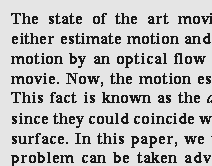
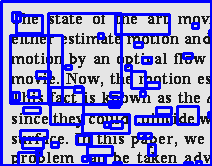
update hws

diff --git a/comput_vision/2task/main.py b/comput_vision/2task/main.py
@@ -1,7 +1,8 @@
-
 __author__ = 'kate'
+
 import numpy as np
 import cv2
+from copy import copy
 
 
 def showImg(name, mat):
@@ -15,8 +16,12 @@ def saveImg(name, mat):
     cv2.imwrite(name, mat)
 
 
+def saveBinImg(binImg):
+    saveImg("rezBin.bmp", binImg)
+
+
 def saveCounturedImg(inImg, binImg):
-    contours, hierarchy = cv2.findContours(binImg, cv2.RETR_TREE, cv2.CHAIN_APPROX_SIMPLE)
+    contours = cv2.findContours(binImg, mode=cv2.RETR_LIST, method=cv2.RETR_LIST)[0]
     for cnt in contours:
         x, y, w, h = cv2.boundingRect(cnt)
         cv2.rectangle(inImg, (x, y), (x + w, y + h), (255, 0, 0), 2)
@@ -24,29 +29,24 @@ def saveCounturedImg(inImg, binImg):
     showImg("COUNTURED", inImg)
 
 
-def saveBinImg(binImg):
-    saveImg("rezBin.png", binImg)
 
 
 def createBinaryImg(inImg):
-    blurImg = cv2.GaussianBlur(inImg, (3, 3), 0)
-    grayImg = cv2.cvtColor(blurImg, cv2.COLOR_BGR2GRAY, 1)
+    blurImg = cv2.GaussianBlur(inImg, (21, 21), 0)
+    grayImg = cv2.cvtColor(blurImg, cv2.COLOR_BGR2GRAY)
 
-    laplacian = cv2.Laplacian(grayImg, cv2.CV_32F)
-    laplacian = cv2.convertScaleAbs(laplacian)
+    laplacian = cv2.Laplacian(grayImg, cv2.CV_32F, None, ksize=17, scale=1)
+    threshed_image = cv2.threshold(laplacian, 0, 255, cv2.THRESH_BINARY)[1]
+    threshed_image = cv2.convertScaleAbs(threshed_image)
+    opening = cv2.morphologyEx(threshed_image, cv2.MORPH_OPEN, np.ones((5, 5), np.uint8))
+    saveBinImg(opening)
+    return opening
 
-    ret, tresh = cv2.threshold(laplacian, 52, 255, cv2.THRESH_BINARY)
-
-    closing = cv2.morphologyEx(tresh, cv2.MORPH_CLOSE, np.ones((3, 13), np.uint8))
-    return closing
 
 def readImg(name):
-    inImg = cv2.imread(name, 1)
-    return inImg
+    return cv2.imread(name, 1)
 
 
 inImg = readImg("text.bmp")
 binImg = createBinaryImg(inImg)
 saveCounturedImg(inImg, binImg)
-
-

diff --git a/comput_vision/1task/main.py b/comput_vision/1task/main.py
@@ -16,12 +16,11 @@ def saveBinImg(binImg):
 
 
 def createBinaryImg(inImg):
-    blurImg = cv2.GaussianBlur(inImg, (13, 13), 0)
-    grayImg = cv2.cvtColor(blurImg, cv2.COLOR_BGR2GRAY, 1)
-
-    laplacian = cv2.Laplacian(grayImg, cv2.CV_32F)
-    laplacian = laplacian.clip(0.0)
-    return laplacian
+    blurImg = cv2.GaussianBlur(inImg, (21, 21), 0)
+    laplacian = cv2.Laplacian(blurImg, cv2.CV_32F, None, ksize=17, scale=1)
+    thresh = cv2.threshold(laplacian, 0, 255, cv2.THRESH_BINARY)[1]
+    saveBinImg(thresh)
+    return thresh
 
 def readImg(name):
     return cv2.imread(name, 1)
